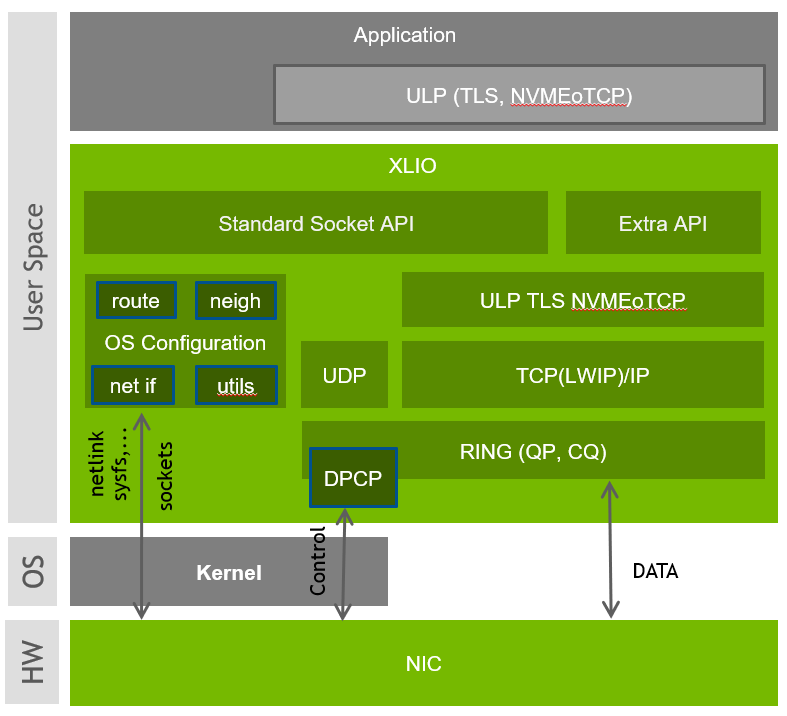
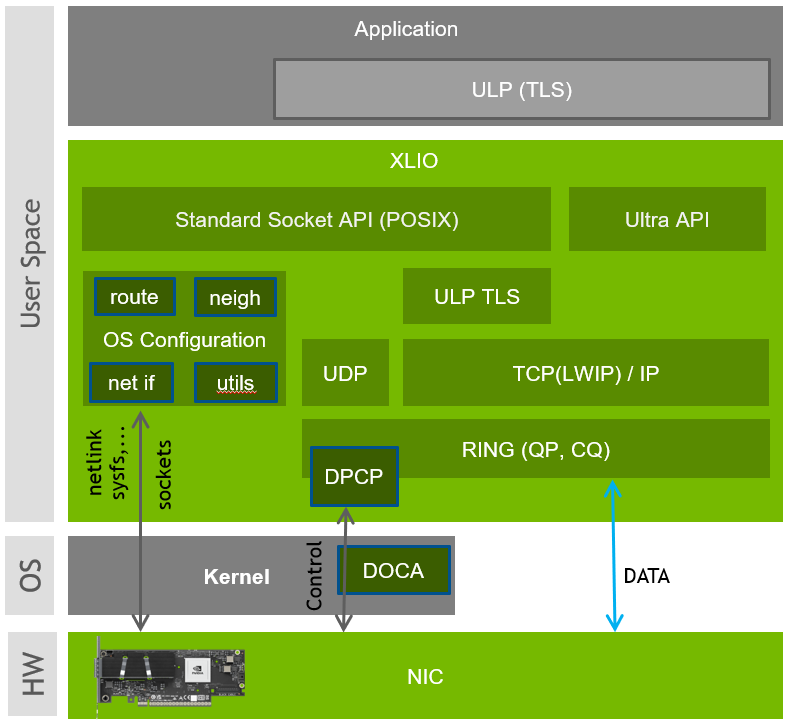
issue: 4610737 Updating XLIO Readme with threads mode
1. Updating README with threads mode information.
2. Updating README.md with latest changes.

Changed region(s): [[0.0, 0.0, 1.0, 1.0], [0.5184, 0.9218, 0.5794, 0.9525]]

diff --git a/README.md b/README.md
@@ -1,10 +1,13 @@
 # XLIO - Accelerated IO SW library
 
-The NVIDIA® Accelerated IO (XLIO) SW library boosts the performance of TCP/IP applications based on NGINX (CDN, DoH Etc.) and storage solutions as part of the SPDK. XLIO is a user-space software library that exposes standard socket APIs with kernel-bypass architecture, enabling a hardware-based direct copy between an application’s user-space memory and the network interface.
+The NVIDIA® Accelerated IO (XLIO) SW library boosts the performance of TCP/IP network applications providing high bandwidth and low CPU usage.
+XLIO is a user-space software library which exposes standard POSIX and XLIO Ultra socket APIs with kernel-bypass architecture, enabling a hardware-based direct copy between an application user-space memory and the network interface.
 
-Coupling XLIO with NVIDIA ConnectX®-6 Dx, NVIDIA ConnectX®-7 or NVIDIA BlueField®-2 data processing unit (DPU) acceleration capabilities provides breakthrough performance of Transport Layer Security (TLS) encryption/decryption. It also enables working with features such as HW LRO/TSO and Striding-RQ which increase TCP performance, without application code changes and using a standard socket API.
+Coupling XLIO with Crypto Enabled NVIDIA ConnectX, NVIDIA BlueField data processing unit (DPU) acceleration capabilities, provides a breakthrough performance of Transport Layer Security (TLS) encryption and decryption.
+XLIO is capable of utilizing HW features such as LRO/TSO and Striding-RQ which increase TCP performance, without application code changes for both
+POSIX socket and XLIO Ultra APIs.
 
-Please visit our [documentation site](https://docs.nvidia.com/networking/category/xlio) for more details.
+Please visit our [documentation website](https://docs.nvidia.com/networking/category/xlio) for more details.
 
 <hr>
 
@@ -16,24 +19,28 @@ Please visit our [documentation site](https://docs.nvidia.com/networking/categor
 * [Licenses](#licenses)
 * [Information](#information)
 * [Contribution](#contribution)
-* [Configuration](#configuration)
 
 <hr>
 
 ## Getting Started
 
-### Prerequisits
+### Installing XLIO
 
-#### Driver Stack
+XLIO is available as part of DOCA Software Stack.
+Please visit [DOCA website](https://developer.nvidia.com/networking/doca) for more details.
 
-XLIO can work on top of both MLNX_OFED driver stack that supports Ethernet and on a lighter driver stack, MLNX_EN that supports only Ethernet.
+### Building XLIO
 
-[MLNX_OFED](https://network.nvidia.com/products/infiniband-drivers/linux/mlnx_ofed/)
-[MLNX_EN](https://network.nvidia.com/products/ethernet-drivers/linux/mlnx_en/)
+#### Prerequisits
 
-#### DPCP
+##### DOCA Software stack
 
-DPCP (Direct Packet Control Plane) is mandatory to enable advanced HW features for supported NVIDIA HW.
+XLIO requires NVIDIA DOCA-Host software stack or NVIDIA Bluefiled bundle to be installed on the system.
+Please visit [DOCA website](https://developer.nvidia.com/networking/doca) for more details.
+
+##### DPCP
+
+DPCP (Direct Packet Control Plane) is mandatory to run XLIO.
 Repository: [libdpcp](https://github.com/Mellanox/libdpcp.git)
 
 ```sh
@@ -43,7 +50,11 @@ $ make -j
 $ make install
 ```
 
-### Building XLIO
+##### Tools
+
+Autoconf, Automake, libtool, unzip, patch, libnl-devel (netlink 3)
+
+#### Compiling XLIO
 
 Run the following commands from within the directory at the top of the tree:
 
@@ -55,7 +66,7 @@ $ make install
 ```
 --enable-utls : Enables uTLS HW offload for supported NVIDIA HW.
 
-### Building XLIO using preinstalled dpcp
+#### Compiling XLIO using preinstalled dpcp
 
 ```sh
 $ ./autogen.sh
@@ -63,6 +74,9 @@ $ ./configure --prefix=/where/to/install --with-dpcp --enable-utls
 $ make -j
 $ make install
 ```
+
+#### Configure
+See more [Options](./docs/configuration.md)
 
 ### Usage Examples
 
@@ -88,26 +102,20 @@ N - Number of Nginx workers.
 * TCP
 * UDP
 
-## Supported CPU Architectures
+## Supported CPU Architecturess
 
 * [x86_64](https://en.wikipedia.org/wiki/X86-64)
 * [Arm](https://www.arm.com/)
 
-## Supported NICs
+## Supported HW
 
-* NVIDIA ConnectX®-6
-* NVIDIA ConnectX®-7
-* NVIDIA BlueField®-2
-* NVIDIA BlueField®-3
+* Please refer to the [User Manual](https://docs.nvidia.com/networking/software/accelerator-software/index.html#xlio) for supported device list.
 
 ## Licenses
 See [LICENSE](./LICENSE) file
 
 ## Information
-See [README](./README) file
+See [README](./README) file for XLIO features and parameters.
 
 ## Contribution
 [Contribution](./docs/contributing.md) guidelines for this project
-
-## Configuration
-[Configuration](./docs/configuration.md) options description
